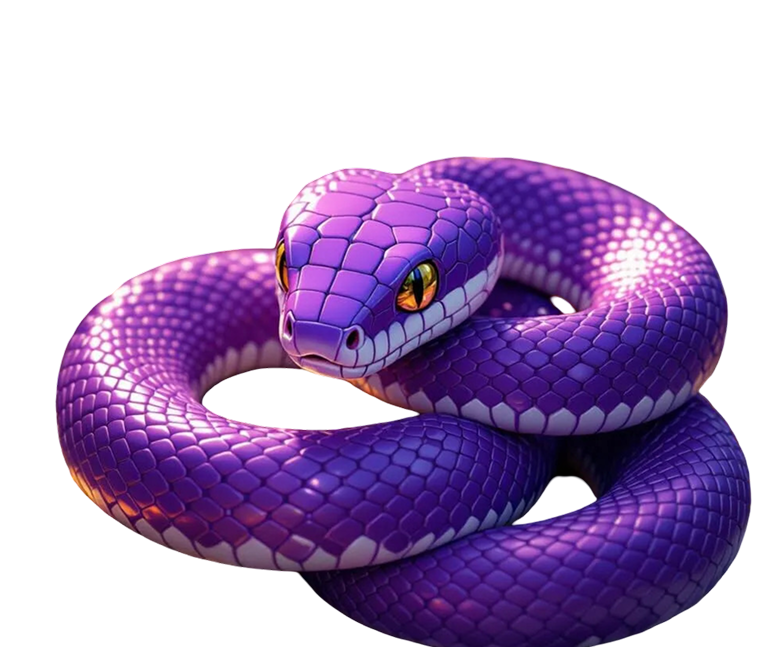
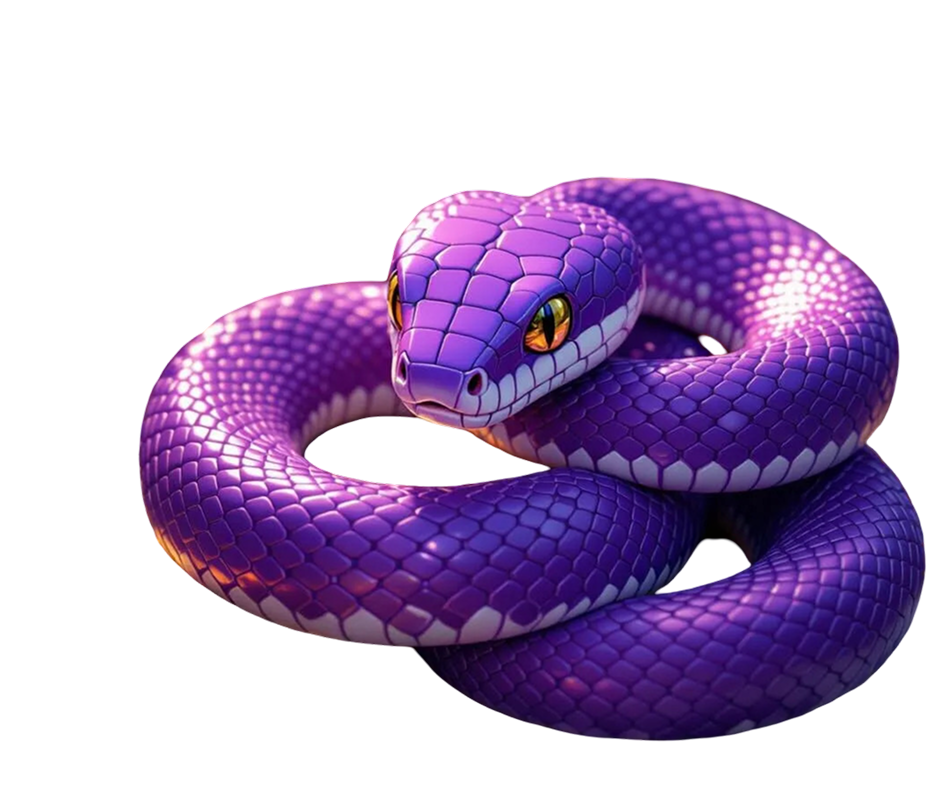
Implement Hero section and localization support

diff --git a/src/widgets/hero/Hero.tsx b/src/widgets/hero/Hero.tsx
@@ -1,7 +1,34 @@
 import Header from '@widgets/header/Header';
+import styles from './hero.module.css';
+import SocialBar from './ui/socialBar/SocialBar';
+import MainButton from '@shared/ui/mainButton/MainButton';
+import Container from '@shared/ui/container/Container';
+import type { Lang } from '@shared/types/language';
+import { heroSectionText } from '@shared/model/i18n';
 
-const Hero = () => {
-  return <Header />;
+interface HeroProps {
+  lang: Lang;
+}
+
+const Hero = ({ lang }: HeroProps) => {
+  return (
+    <main className={styles.hero}>
+      <Container>
+        <div className={styles.flexContainer}>
+          <Header />
+          <section className={styles.section}>
+            <h1 className={styles.title}>
+              {`${heroSectionText.title} `}
+              <span>{heroSectionText.animatedText[0]}</span> {/* ИСПРАВИТЬ ПРИ АНИМАЦИИ */}
+            </h1>
+            <p className={styles.subtitle}>{heroSectionText[lang].subtitle}</p>
+            <MainButton text={heroSectionText[lang].button} onClick={() => console.log('click')} />
+          </section>
+          <SocialBar />
+        </div>
+      </Container>
+    </main>
+  );
 };
 
 export default Hero;

diff --git a/src/widgets/hero/hero.module.css b/src/widgets/hero/hero.module.css
@@ -1,0 +1,59 @@
+.hero {
+  height: 100vh;
+
+  background: linear-gradient(120deg, #dc8400, #560080, #220032) 0 0 / cover no-repeat;
+}
+
+.flexContainer {
+  display: flex;
+  height: 100vh;
+
+  flex-direction: column;
+  justify-content: space-between;
+  padding: 30px 20px 50px 50px;
+  margin: 0 auto;
+  background: url('~@assets/img/hero-snake.png') 490px 110px / 950px 790px no-repeat;
+}
+.section {
+  display: flex;
+  flex-direction: column;
+  justify-content: space-between;
+  height: 330px;
+  width: 756px;
+  margin-bottom: auto;
+  margin-top: 145px;
+}
+
+.title {
+  margin: 0;
+  color: var(--color-text);
+
+  font-family: var(--font-main);
+  font-style: Bold;
+  font-size: 80px;
+  font-weight: 700;
+  line-height: 1;
+  letter-spacing: -1.74px;
+  text-align: left;
+  text-transform: uppercase;
+}
+
+.title span {
+  color: var(--color-yell);
+}
+
+.subtitle {
+  margin-top: 10px;
+  margin-bottom: auto;
+  width: 550px;
+
+  color: var(--color-text);
+
+  font-family: var(--font-second);
+  font-style: Regular;
+  font-size: 20px;
+  font-weight: 400;
+  line-height: 24px;
+  letter-spacing: 0px;
+  text-align: left;
+}

diff --git a/src/shared/ui/mainButton/mainButton.module.css b/src/shared/ui/mainButton/mainButton.module.css
@@ -14,6 +14,9 @@
   font-size: 23px;
   font-weight: 700;
   color: var(--color-dark);
+  z-index: 10;
+  align-self: flex-start;
+  flex: 0 0 auto;
 }
 
 .mainButton::before {
@@ -23,10 +26,10 @@
   top: -11px;
   left: 1px;
   transform: skewX(-45deg);
-  min-width: calc(100% + 6px);
+  min-width: calc(100% + 5px);
   height: 10px;
   border: inherit;
-  border-bottom: none;
+  /* border-bottom: none; */
   border-radius: 2px;
   background-color: inherit;
 }
@@ -39,9 +42,9 @@
   right: -11px;
   transform: skewY(-45deg);
   width: 10px;
-  height: inherit;
+  height: calc(100% + 6px);
   border: inherit;
-  border-left: none;
+  /* border-left: none; */
   border-radius: 2px;
   background-color: inherit;
 }

diff --git a/src/shared/model/i18n.ts b/src/shared/model/i18n.ts
@@ -19,3 +19,18 @@ export const scrollToTopText = {
   eng: 'SCROLL TO TOP',
   ru: 'НАВЕРХ',
 };
+
+export const heroSectionText = {
+  title: 'PRACTICE MAKES',
+  animatedText: ['PROFIT', 'GROWTH', 'SKILLS'],
+  eng: {
+    subtitle:
+      'We provide effective solutions, tested and refined on our own products and ad budgets',
+    button: 'GET IN TOUCH',
+  },
+  ru: {
+    subtitle:
+      'Предлагаем эффективные решения, которые уже протестили на своих продуктах и бюджетах',
+    button: 'ПОЛУЧИТЬ ПРОФИТ',
+  },
+};

diff --git a/src/shared/ui/container/Container.tsx b/src/shared/ui/container/Container.tsx
@@ -1,0 +1,12 @@
+import type { ReactNode } from 'react';
+import styles from './container.module.css';
+
+interface ContainerProps {
+  children: ReactNode;
+}
+
+const Container = ({ children }: ContainerProps) => {
+  return <div className={styles.container}>{children}</div>;
+};
+
+export default Container;

diff --git a/src/app/App.tsx b/src/app/App.tsx
@@ -2,7 +2,7 @@ import '@assets/global.css';
 import Hero from '@widgets/hero/Hero';
 
 const App = () => {
-  return <Hero />;
+  return <Hero lang="ru" />;
 };
 
 export default App;

diff --git a/src/widgets/header/header.module.css b/src/widgets/header/header.module.css
@@ -1,9 +1,9 @@
 .header {
+  width: 100%;
   height: 46px;
   display: flex;
   justify-content: space-between;
   max-width: 1340px;
-  margin: 30px auto;
 }
 
 .logo {

diff --git a/src/shared/ui/container/container.module.css b/src/shared/ui/container/container.module.css
@@ -1,0 +1,5 @@
+.container {
+  width: 1440px;
+  height: 100vh;
+  margin: 0 auto;
+}
